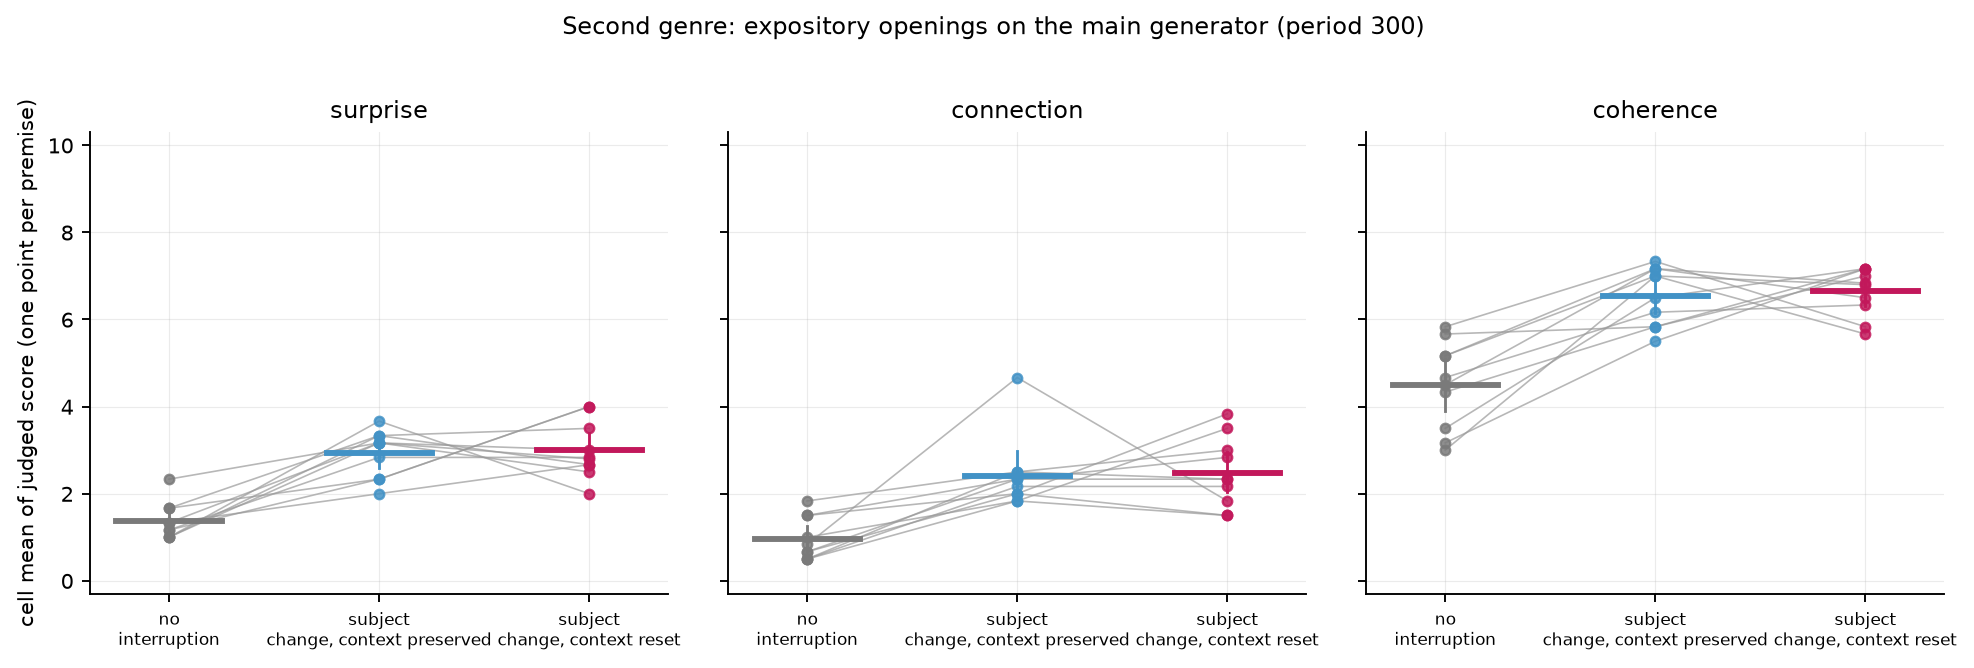
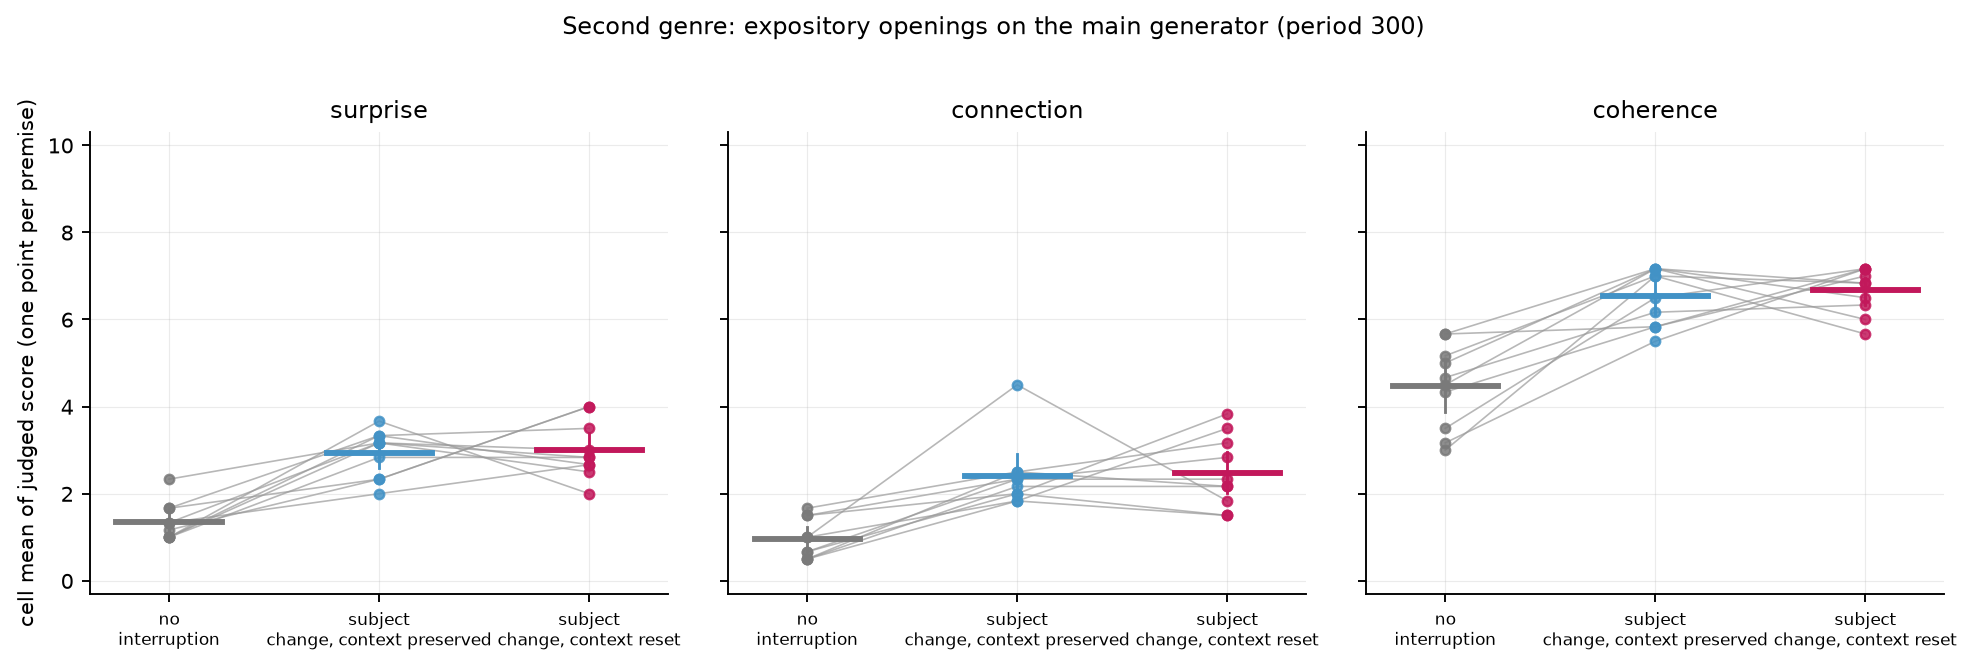
Second genre replication; limitations updated

diff --git a/paper/sections/exp_loop.tex b/paper/sections/exp_loop.tex
@@ -439,6 +439,17 @@ unquantized (bf16) Qwen3-8B-Base gives 0.60 $\rightarrow$ 1.33 $\rightarrow$
 \ci{+1.27}{+3.10}), against 0.43 $\rightarrow$ 1.37 $\rightarrow$ 2.76 and
 0.40 $\rightarrow$ 1.00 $\rightarrow$ 3.17 at 8 bits.
 
+\paragraph{A second genre.} All premises above are narrative. Ten
+expository openings written for the purpose (\emph{``The history of the
+umbrella is mostly a history of people refusing to carry one.''},
+\emph{``Salt was once the reason cities existed where they do.''}; the full
+list is in the repository), run on the main generator at period 300, give
+the same picture: habituation alone 1.35 / 0.95 / 4.47, the subject change
+on the preserved context 2.93 / 2.40 / 6.53 (+1.58 \ci{+1.17}{+2.00} on
+surprise, +1.45 on connection, $p=0.002$, every premise), on the reset
+context 3.00 / 2.48 / 6.67 (+1.65, +1.53); here the two contexts are
+indistinguishable (Table~\ref{tab:gen-second}).
+
 \paragraph{A post-trained model.} As one step outside the scope decision, we
 ran the same ladder on the post-trained Qwen3-8B (the released chat model,
 8-bit), continued raw, without a chat template, from the same premises. Its

diff --git a/paper/sections/limitations.tex b/paper/sections/limitations.tex
@@ -10,7 +10,9 @@ originality against the world is measured, and the study makes no claim
 about ideas or problems. Its title names the question the program set out
 with; the results answer a narrower one.
 
-\paragraph{Design.} Ten premises, all English narrative, one genre. Three
+\paragraph{Design.} Ten premises, all English narrative (plus ten
+expository openings for one replication, and ten new narrative premises for
+the confirmatory battery). Three
 generator models from two families for the core ladder; one generator
 (Qwen3-30B-A3B) for the content, timing, period and control batteries. Every
 arm ran once per premise with the same random seed, so the ten cells are the

diff --git a/docs/APPENDIX_GEN.md b/docs/APPENDIX_GEN.md
@@ -338,7 +338,7 @@ A window is *copied* when at least half of its 12-token shingles occur earlier i
 | interruption 900 vs habituation | connection | **+0.92 [+0.30, +1.54]** | 0.023 | +0.66 | 10 |
 | interruption 900 vs habituation | coherence | **+1.75 [+0.82, +2.65]** | 0.008 | +0.78 | 10 |
 
-## Document level — the whole 4,500-token stream, injected sentences removed, Opus k=3 (220 documents)
+## Document level — the whole 4,500-token stream, injected sentences removed, Opus k=3 (230 documents)
 
 Unit = cell (one document each). Integration: parts taken up and joined later; development: something builds rather than restarts or repeats; coherence: reads as one text; surprise: the whole goes somewhere unpredictable yet sensible.
 
@@ -353,6 +353,7 @@ Unit = cell (one document each). Integration: parts taken up and joined later; d
 | reset + new subject 300 | 10 | 2.00 [1.60, 2.40] | 1.60 [1.30, 1.90] | 2.20 [1.80, 2.60] | 2.50 [2.20, 2.80] |
 | reset + break 300 | 10 | 0.80 [0.40, 1.20] | 0.40 [0.10, 0.70] | 1.00 [1.00, 1.00] | 0.80 [0.40, 1.20] |
 | DREAM scaffold | 10 | 1.10 [0.80, 1.40] | 1.10 [0.80, 1.40] | 1.00 [0.70, 1.30] | 1.30 [1.00, 1.60] |
+| judge-gated interruption 150 | 10 | 0.90 [0.60, 1.20] | 0.50 [0.20, 0.80] | 1.30 [1.00, 1.60] | 0.30 [0.00, 0.60] |
 | salience only | 10 | 1.20 [0.80, 1.60] | 1.00 [0.60, 1.50] | 1.50 [1.20, 1.80] | 1.30 [1.00, 1.60] |
 | habituation, EOS allowed | 10 | 1.50 [1.00, 2.10] | 1.00 [0.70, 1.30] | 1.50 [1.00, 2.00] | 1.20 [0.80, 1.70] |
 | reseed 600 | 10 | 1.70 [1.40, 2.00] | 0.90 [0.70, 1.00] | 1.70 [1.40, 2.00] | 1.20 [1.00, 1.50] |
@@ -399,6 +400,14 @@ Unit = cell (one document each). Integration: parts taken up and joined later; d
 | habituation vs bare | development | **+0.60 [+0.20, +1.10]** | 0.125 | +0.40 | 10 |
 | habituation vs bare | coherence | +0.40 [-0.20, +1.00] | 0.406 | +0.35 | 10 |
 | habituation vs bare | surprise | **+0.80 [+0.20, +1.40]** | 0.078 | +0.60 | 10 |
+| judge-gated vs clock 150 | integration | +0.20 [-0.30, +0.60] | 0.688 | +0.18 | 10 |
+| judge-gated vs clock 150 | development | +0.20 [+0.00, +0.50] | 0.500 | +0.20 | 10 |
+| judge-gated vs clock 150 | coherence | +0.10 [-0.20, +0.40] | 1.000 | +0.10 | 10 |
+| judge-gated vs clock 150 | surprise | +0.20 [+0.00, +0.50] | 0.500 | +0.20 | 10 |
+| judge-gated vs habituation | integration | -0.50 [-1.20, +0.10] | 0.344 | -0.34 | 10 |
+| judge-gated vs habituation | development | -0.60 [-1.30, +0.00] | 0.250 | -0.40 | 10 |
+| judge-gated vs habituation | coherence | -0.20 [-0.60, +0.30] | 0.688 | -0.20 | 10 |
+| judge-gated vs habituation | surprise | **-1.10 [-1.40, -0.80]** | 0.004 | -0.82 | 10 |
 
 ### P2 — the ladder on Qwen3-8B-Base without quantization (bf16) — cell means (mean over cells [95% CI over cells])
 
@@ -466,42 +475,67 @@ Unit = cell (one document each). Integration: parts taken up and joined later; d
 | condition | n cells | surprise | connection | coherence |
 |---|---|---|---|---|
 | no interruption | 10 | 1.96 [1.30, 2.61] | 1.26 [0.77, 1.76] | 3.99 [2.89, 5.07] |
-| paragraph break (sham) | 10 | 1.88 [1.39, 2.33] | 1.61 [0.94, 2.37] | 4.20 [3.01, 5.40] |
-| subject change, context preserved | 10 | 3.57 [3.09, 4.10] | 3.52 [3.05, 4.07] | 5.65 [5.16, 6.17] |
-| subject change, context reset | 10 | 4.10 [3.78, 4.42] | 2.85 [2.53, 3.17] | 6.63 [6.22, 7.02] |
+| paragraph break (sham) | 10 | 1.93 [1.41, 2.46] | 1.52 [0.93, 2.19] | 4.06 [2.96, 5.12] |
+| subject change, context preserved | 10 | 3.60 [3.10, 4.15] | 3.54 [3.07, 4.10] | 5.65 [5.15, 6.17] |
+| subject change, context reset | 10 | 4.10 [3.78, 4.42] | 2.90 [2.62, 3.18] | 6.63 [6.22, 7.00] |
 
 ### vs no interruption — paired by seed
 
 | condition | dim | Δ [CI] | p (perm) | q (BH) | Cliff δ | n seeds |
 |---|---|---|---|---|---|---|
-| paragraph break (sham) | surprise | -0.08 [-0.92, +0.73] | 0.852 | 0.875 | -0.08 | 10 |
-| paragraph break (sham) | connection | +0.35 [-0.47, +1.21] | 0.480 | 0.618 | +0.10 | 10 |
-| paragraph break (sham) | coherence | +0.21 [-1.29, +1.65] | 0.875 | 0.875 | +0.03 | 10 |
-| subject change, context preserved | surprise | **+1.61 [+0.72, +2.42]** | 0.012 | 0.021 | +0.80 | 10 |
-| subject change, context preserved | connection | **+2.26 [+1.58, +2.87]** | 0.004 | 0.009 | +0.97 | 10 |
+| paragraph break (sham) | surprise | -0.02 [-0.90, +0.85] | 0.965 | 0.965 | -0.06 | 10 |
+| paragraph break (sham) | connection | +0.27 [-0.48, +1.01] | 0.541 | 0.696 | +0.09 | 10 |
+| paragraph break (sham) | coherence | +0.07 [-1.33, +1.39] | 0.926 | 0.965 | -0.01 | 10 |
+| subject change, context preserved | surprise | **+1.64 [+0.74, +2.51]** | 0.012 | 0.021 | +0.80 | 10 |
+| subject change, context preserved | connection | **+2.28 [+1.58, +2.95]** | 0.004 | 0.009 | +0.97 | 10 |
 | subject change, context preserved | coherence | **+1.66 [+0.37, +2.88]** | 0.043 | 0.064 | +0.53 | 10 |
 | subject change, context reset | surprise | **+2.14 [+1.32, +2.92]** | 0.004 | 0.009 | +0.90 | 10 |
-| subject change, context reset | connection | **+1.59 [+1.02, +2.22]** | 0.002 | 0.009 | +0.90 | 10 |
+| subject change, context reset | connection | **+1.64 [+1.10, +2.25]** | 0.002 | 0.009 | +0.90 | 10 |
 | subject change, context reset | coherence | **+2.64 [+1.60, +3.79]** | 0.002 | 0.009 | +0.83 | 10 |
 
 ### Second genre — expository openings on the main generator (period 300) — cell means (mean over cells [95% CI over cells])
 
 | condition | n cells | surprise | connection | coherence |
 |---|---|---|---|---|
-| no interruption | 10 | 1.37 [1.15, 1.65] | 0.95 [0.68, 1.25] | 4.50 [3.90, 5.08] |
-| subject change, context preserved | 10 | 2.93 [2.60, 3.23] | 2.42 [2.05, 2.98] | 6.55 [6.15, 6.92] |
-| subject change, context reset | 10 | 3.00 [2.64, 3.40] | 2.48 [2.03, 2.97] | 6.65 [6.31, 6.95] |
+| no interruption | 10 | 1.35 [1.12, 1.63] | 0.95 [0.68, 1.23] | 4.47 [3.88, 5.02] |
+| subject change, context preserved | 10 | 2.93 [2.60, 3.23] | 2.40 [2.05, 2.92] | 6.53 [6.13, 6.90] |
+| subject change, context reset | 10 | 3.00 [2.65, 3.38] | 2.48 [2.02, 2.97] | 6.67 [6.33, 6.95] |
 
 ### vs no interruption — paired by seed
 
 | condition | dim | Δ [CI] | p (perm) | q (BH) | Cliff δ | n seeds |
 |---|---|---|---|---|---|---|
-| subject change, context preserved | surprise | **+1.57 [+1.15, +1.98]** | 0.002 | 0.003 | +0.96 | 10 |
-| subject change, context preserved | connection | **+1.47 [+0.98, +2.08]** | 0.002 | 0.003 | +0.98 | 10 |
-| subject change, context preserved | coherence | **+2.05 [+1.43, +2.67]** | 0.002 | 0.003 | +0.94 | 10 |
-| subject change, context reset | surprise | **+1.63 [+1.19, +2.03]** | 0.002 | 0.003 | +0.98 | 10 |
-| subject change, context reset | connection | **+1.53 [+0.93, +2.13]** | 0.004 | 0.004 | +0.91 | 10 |
-| subject change, context reset | coherence | **+2.15 [+1.35, +2.93]** | 0.004 | 0.004 | +0.96 | 10 |
+| subject change, context preserved | surprise | **+1.58 [+1.17, +2.00]** | 0.002 | 0.002 | +0.96 | 10 |
+| subject change, context preserved | connection | **+1.45 [+1.00, +2.00]** | 0.002 | 0.002 | +1.00 | 10 |
+| subject change, context preserved | coherence | **+2.07 [+1.45, +2.68]** | 0.002 | 0.002 | +0.96 | 10 |
+| subject change, context reset | surprise | **+1.65 [+1.20, +2.05]** | 0.002 | 0.002 | +0.98 | 10 |
+| subject change, context reset | connection | **+1.53 [+0.92, +2.15]** | 0.004 | 0.004 | +0.92 | 10 |
+| subject change, context reset | coherence | **+2.20 [+1.43, +2.95]** | 0.002 | 0.002 | +0.98 | 10 |
+
+### Judge-gated interruption (DREAM's Review with a gate that opens) vs the clock — cell means (mean over cells [95% CI over cells])
+
+| condition | n cells | surprise | connection | coherence |
+|---|---|---|---|---|
+| no interruption | 10 | 1.60 [1.18, 2.00] | 1.32 [0.87, 1.82] | 4.40 [3.45, 5.42] |
+| clock 150 | 10 | 3.02 [2.53, 3.53] | 3.68 [2.92, 4.52] | 6.12 [5.60, 6.57] |
+| clock 300 | 10 | 2.90 [2.45, 3.35] | 2.40 [2.03, 2.78] | 6.40 [6.08, 6.70] |
+| judge-gated 150 | 9 | 2.69 [2.15, 3.22] | 3.07 [2.54, 3.59] | 6.16 [5.60, 6.79] |
+
+### vs clock 150 — paired by seed
+
+| condition | dim | Δ [CI] | p (perm) | q (BH) | Cliff δ | n seeds |
+|---|---|---|---|---|---|---|
+| no interruption | surprise | **-1.42 [-2.03, -0.92]** | 0.002 | 0.009 | -0.85 | 10 |
+| no interruption | connection | **-2.37 [-3.28, -1.57]** | 0.002 | 0.009 | -0.93 | 10 |
+| no interruption | coherence | **-1.72 [-2.90, -0.35]** | 0.043 | 0.097 | -0.61 | 10 |
+| clock 300 | surprise | -0.12 [-0.75, +0.47] | 0.781 | 0.781 | -0.02 | 10 |
+| clock 300 | connection | **-1.28 [-2.10, -0.53]** | 0.008 | 0.023 | -0.64 | 10 |
+| clock 300 | coherence | +0.28 [-0.28, +0.82] | 0.389 | 0.583 | +0.22 | 10 |
+| judge-gated 150 | surprise | -0.39 [-1.17, +0.26] | 0.453 | 0.583 | -0.25 | 9 |
+| judge-gated 150 | connection | -0.76 [-1.69, +0.06] | 0.211 | 0.380 | -0.27 | 9 |
+| judge-gated 150 | coherence | -0.16 [-0.73, +0.52] | 0.711 | 0.781 | -0.20 | 9 |
+
+Gate: 300 reads in 10 cells, 40 finds left to run (13%).
 
 ## Confirmatory battery — ten new premises, RNG seed 1 (420 judged windows)
 
